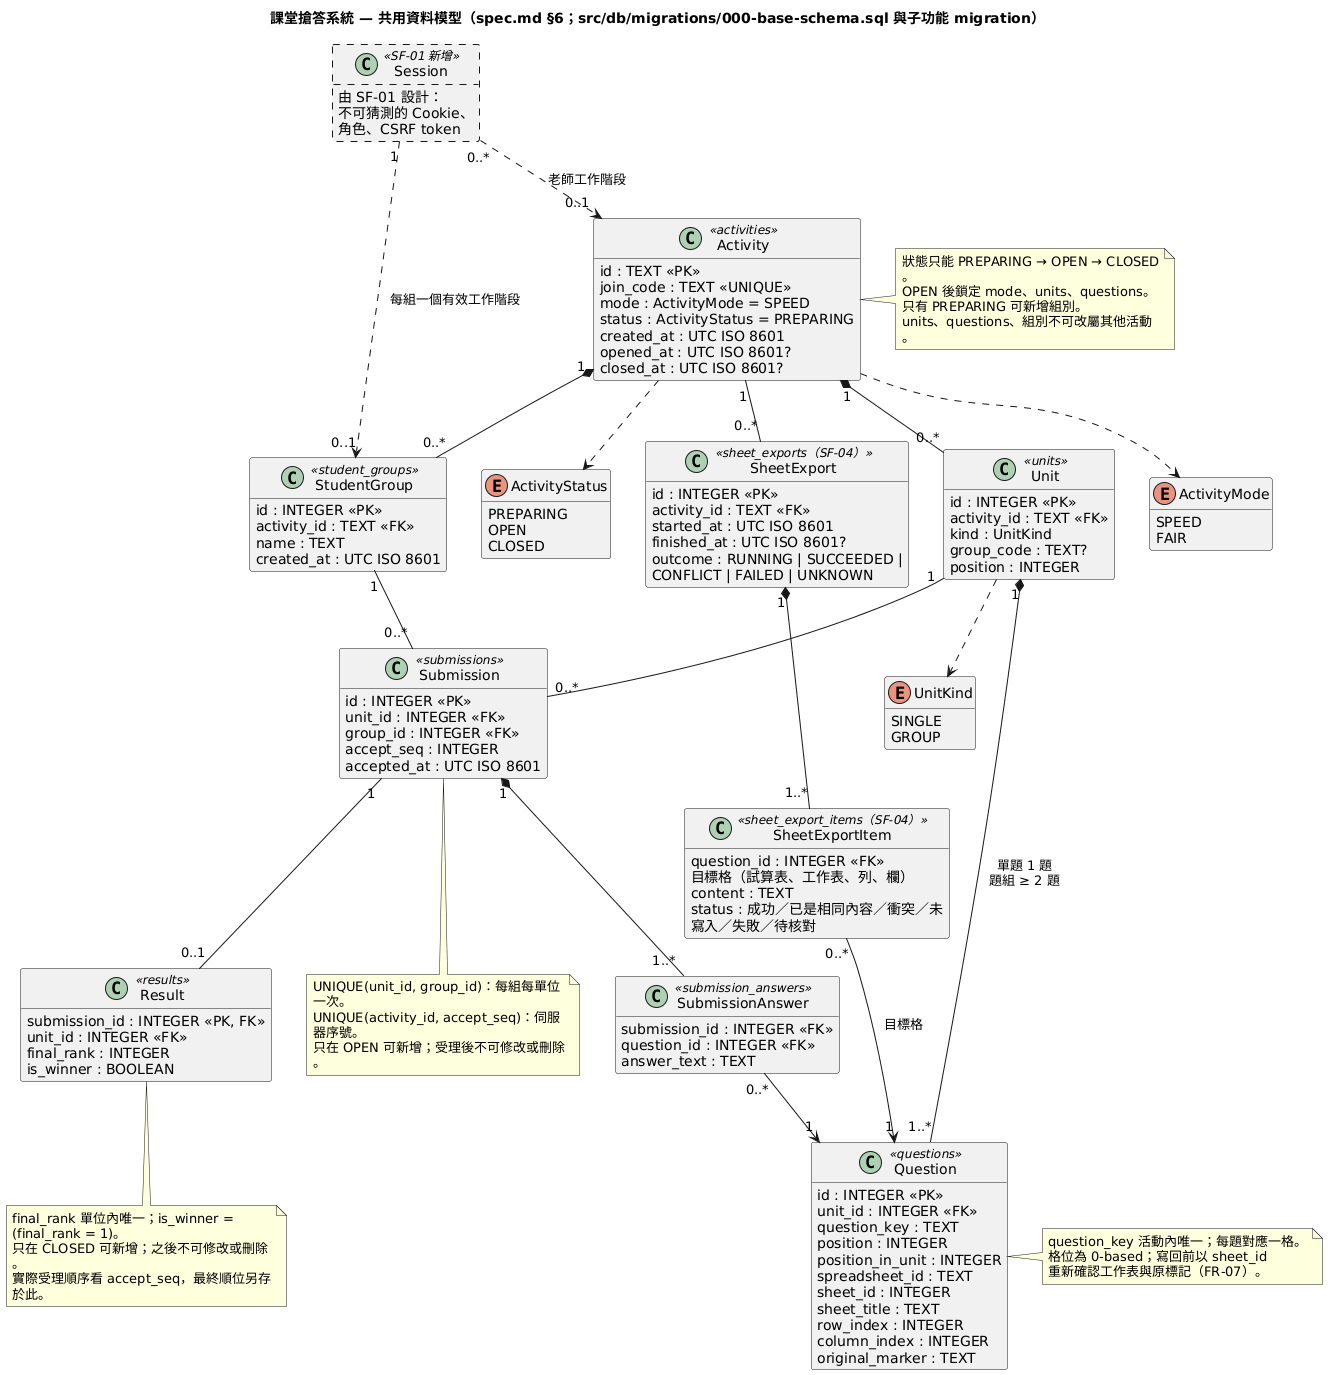
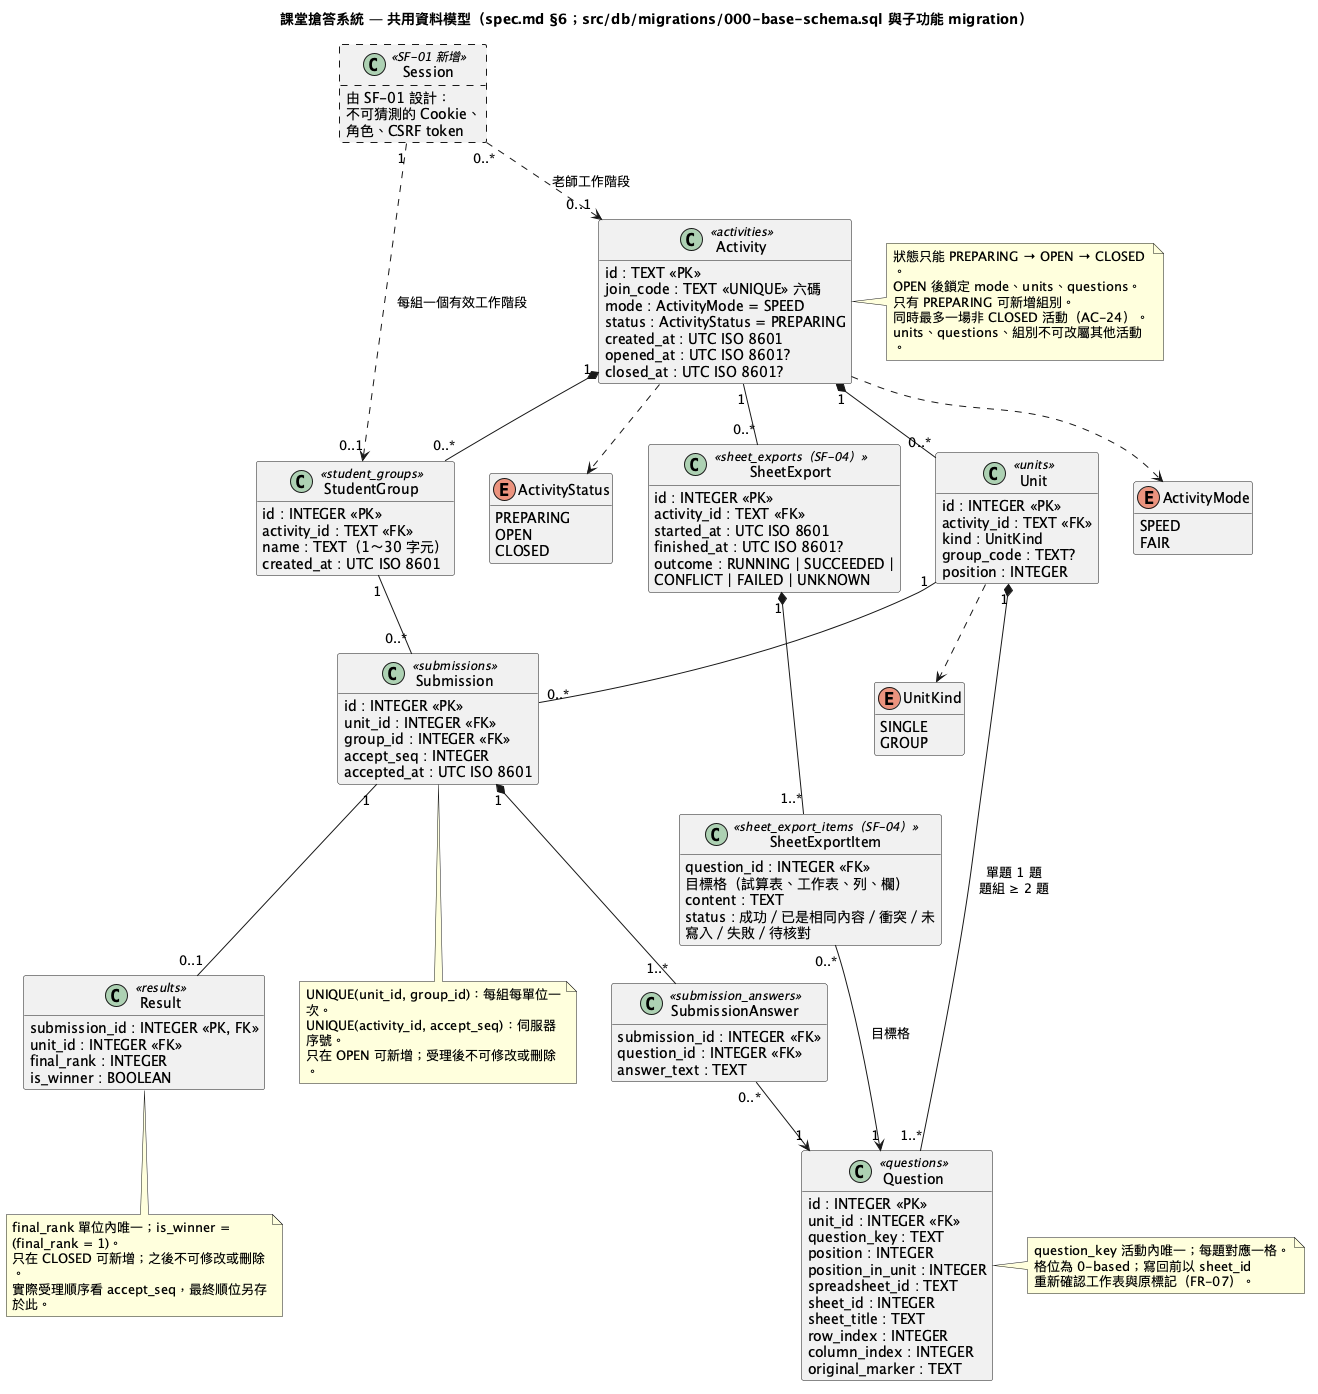
docs(diagrams): show the AC-24 limits in SF-01 and system diagrams

diff --git a/specs/001-activity-groups/diagram-sync.md b/specs/001-activity-groups/diagram-sync.md
@@ -11,3 +11,5 @@
 以 `npm run diagrams -- 'diagrams/001-*.puml'` 產生三張 PNG。
 
 2026-11-20 依 #24 審查更新循序圖。退出路徑沿用既有元件及組別外鍵關係。使用 `npm run diagrams -- diagrams/001-activity-groups-sequence.puml` 重新產生循序圖。
+
+2026-11-27 依 #32（AC-24）更新類別圖與循序圖：加入碼六碼、組名 1～30 字元、建立活動時在同一交易檢查沒有未結束活動（`activities.js` 的 `createActivity`、`joinActivity`），狀態 updated；元件圖沒有新增元件或依賴，狀態 match。共用資料模型與主流程的系統基準圖（`system-class`、`system-sequence`）同步補上相同限制。以 `npm run diagrams -- diagrams/001-activity-groups-class.puml diagrams/001-activity-groups-sequence.puml diagrams/system-class.puml diagrams/system-sequence.puml` 重新產生 4 張 PNG。
